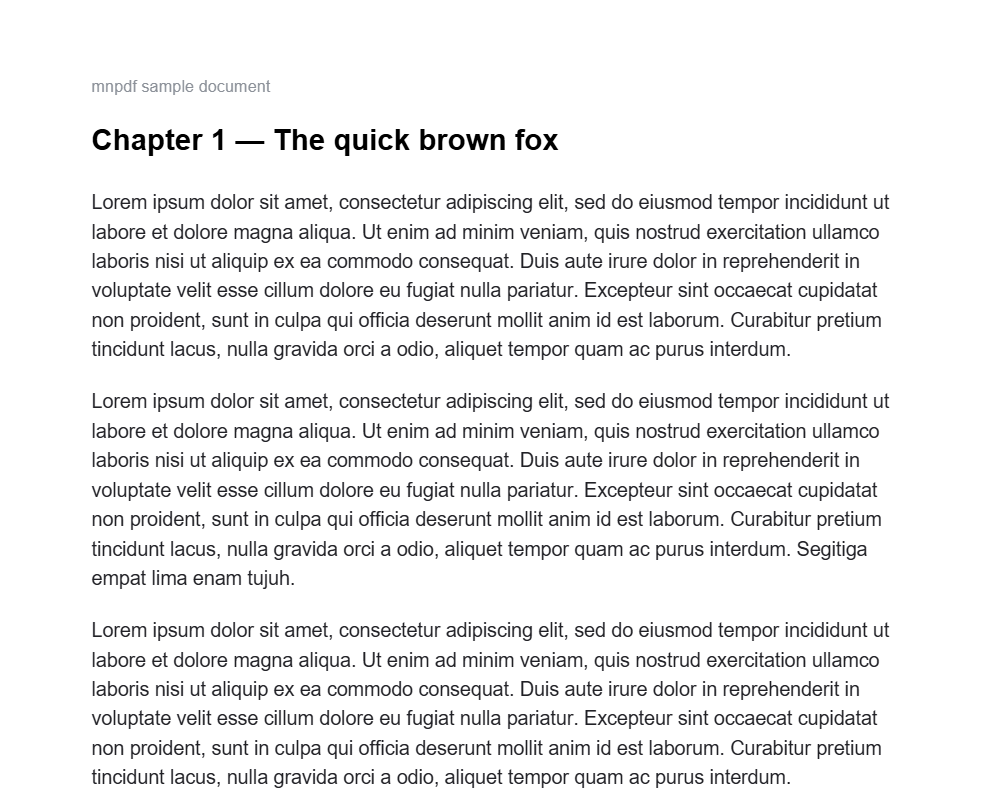
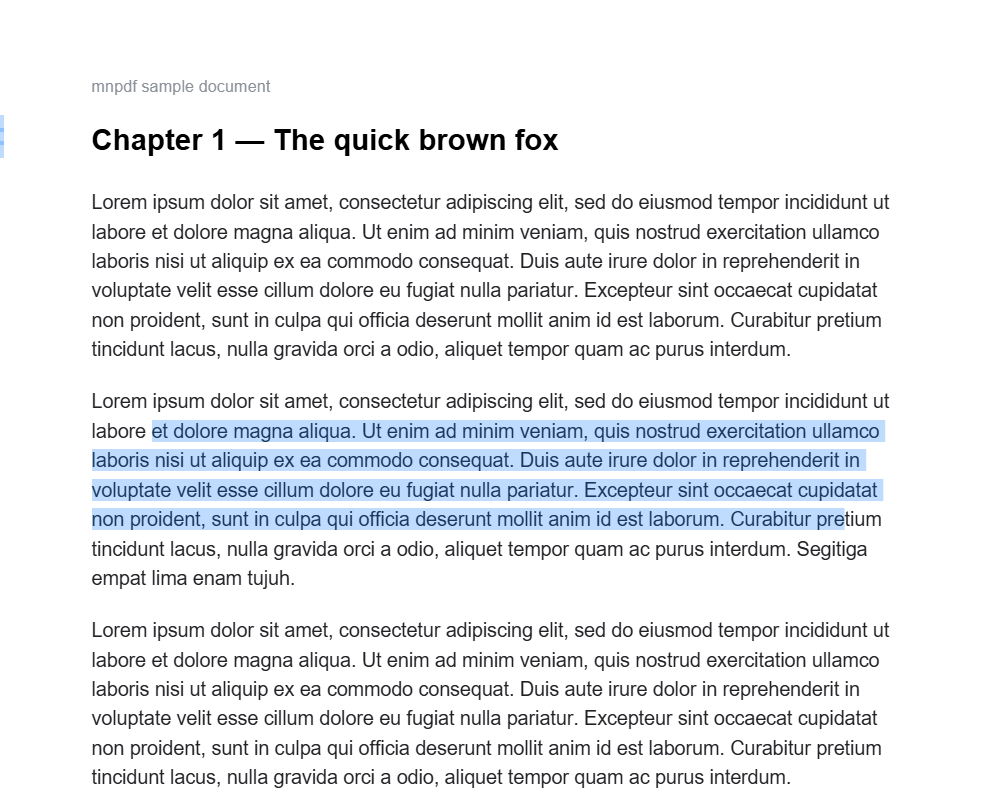
v0.7: mnpdf computes text selection itself — glyph-accurate, blank-space aware, persists after release (Chromium's gap selection no longer used)

Changed region(s): [[0.093, 0.5, 0.899, 0.6875], [0.0, 0.1562, 0.031, 0.1875]]

diff --git a/src/annos.js b/src/annos.js
@@ -46,77 +46,18 @@ function renderWrapOverlays(i, w, vp) {
   w.notes.replaceChildren(nFrag);
 }
 
-// ---- selection -> highlight rects ----
+// ---- text selection (manual, glyph-accurate) ----
 
-// The browser's drag-selection overshoots badly on text layers (a 2-line drag
-// can select to the end of the page when an endpoint lands in a gap). So for
-// drags we derive highlight rects from the POINTER BAND ∩ text spans instead
-// of trusting the selection. Double-click/keyboard selections keep the
-// selection-based path.
-let dragBand = null;    // {wrapEl, x0, y0, x1, y1} viewport coords
-let bandSel = null;     // last band-derived selection info
-let bandSelAt = 0;
+// Chromium's native drag-selection overshoots badly on text layers: an
+// endpoint that lands in a gap or margin extends the selection to the end of
+// the page, and right-clicks collapse it. So mnpdf computes the selection
+// itself from the glyph boxes: drag endpoints map to line/character offsets,
+// blank space means "start/end of the line", and the resulting DOM selection
+// is a real one — it paints blue, persists after release, and Ctrl+C works.
 
-function releaseSelecting() {
-  document.querySelectorAll('.textLayer.selecting').forEach((l) => l.classList.remove('selecting'));
-}
+let selAnchor = null; // {node, off, layer, boxes} while a drag is in progress
+let selLastApplied = '';
 
-function initDragBandTracking() {
-  document.addEventListener(
-    'mousedown',
-    (e) => {
-      if (e.button !== 0) return;
-      const tlEl = e.target.closest?.('.textLayer');
-      if (!tlEl) return;
-      // blank-space starts are fine: the highlight comes from the pointer band
-      // (glyph-trimmed), and endOfContent keeps the native endpoint on text
-      tlEl.classList.add('selecting');
-      const wrapEl = tlEl.closest('.pagewrap');
-      if (wrapEl) dragBand = { wrapEl, x0: e.clientX, y0: e.clientY, x1: e.clientX, y1: e.clientY };
-    },
-    true,
-  );
-  document.addEventListener(
-    'pointermove',
-    (e) => {
-      if (dragBand && e.buttons & 1) {
-        dragBand.x1 = e.clientX;
-        dragBand.y1 = e.clientY;
-      }
-    },
-    true,
-  );
-  document.addEventListener(
-    'pointerup',
-    () => {
-      releaseSelecting();
-      if (dragBand) {
-        const moved =
-          Math.abs(dragBand.x1 - dragBand.x0) + Math.abs(dragBand.y1 - dragBand.y0) >= 6;
-        const derived = moved ? deriveBandSelection(dragBand) : null;
-        if (derived) {
-          bandSel = derived;
-          bandSelAt = Date.now();
-          lastSel = derived;
-          // the native selection overshoots on gap drags; our band result
-          // replaces it (Ctrl+C falls back to the captured band text)
-          window.getSelection()?.removeAllRanges();
-        }
-        dragBand = null;
-      }
-    },
-    true,
-  );
-  document.addEventListener('pointercancel', () => {
-    releaseSelecting();
-    dragBand = null;
-  });
-  window.addEventListener('blur', releaseSelecting);
-}
-
-// A span's box covers its laid-out text INCLUDING stretched/trailing spaces —
-// highlight boxes must use the trimmed visible glyphs only, or highlights
-// bleed into the page margins ("fringe" highlighting).
 function spanVisibleBox(span) {
   const text = span.textContent || '';
   const node = span.firstChild;
@@ -150,93 +91,92 @@ function offsetAtX(vis, x) {
   return Math.max(vis.start, Math.min(vis.end, vis.start + Math.round(frac * (vis.end - vis.start))));
 }
 
-// rects covered by the pointer band: the visible glyphs of every text line the
-// band crosses. The band's vertical extent decides WHICH lines; its horizontal
-// extent only trims the first/last line when the pointer cut inside the text —
-// starting or ending in blank space means "the whole line(s)", never the page
-// margins.
-function deriveBandSelection(band) {
-  const i = +band.wrapEl.dataset.i;
-  if (!S.pageList[i]) return null;
-  const vp = viewportFor(i);
-  if (!vp) return null;
-  const wr = band.wrapEl.getBoundingClientRect();
-  const bx0 = Math.min(band.x0, band.x1), bx1 = Math.max(band.x0, band.x1);
-  const by0 = Math.min(band.y0, band.y1), by1 = Math.max(band.y0, band.y1);
-  const boxes = [];
-  for (const span of band.wrapEl.querySelectorAll('.textLayer span')) {
+function layerSpans(layer) {
+  const out = [];
+  for (const span of layer.querySelectorAll('span')) {
     const vis = spanVisibleBox(span);
-    if (!vis || vis.bottom - vis.top < 2 || vis.right - vis.left < 1) continue;
-    // a line counts only when the band genuinely crosses it: grazing the edge
-    // of the next line (drag ending in the gap) must not pull it in — unless
-    // the drag itself is a thin same-line sweep
-    const overlap = Math.min(vis.bottom, by1) - Math.max(vis.top, by0);
-    const bandH = by1 - by0;
-    if (bandH <= 8) {
-      // thin (same-line) sweep: the sweep line must sit inside the line box
-      const midY = (by0 + by1) / 2;
-      if (midY < vis.top - 2 || midY > vis.bottom + 2) continue;
-    } else if (overlap < 4 || overlap < (vis.bottom - vis.top) * 0.35) {
-      // the band must genuinely cross the line — grazing the next line's edge
-      // (drag ending in the gap) must not pull it in
-      continue;
-    }
-    boxes.push(vis);
+    if (vis && vis.bottom - vis.top >= 2 && vis.right - vis.left >= 1) out.push(vis);
   }
-  if (!boxes.length) return null;
-  const topMost = Math.min(...boxes.map((b) => b.top));
-  const botMost = Math.max(...boxes.map((b) => b.bottom));
-  const rects = [];
-  const parts = [];
-  for (const vis of boxes) {
-    const isFirst = vis.top <= topMost + 2;
-    const isLast = vis.bottom >= botMost - 2;
-    let sx = vis.left, sOff = vis.start;
-    if (isFirst && bx0 > vis.left + 2) {
-      if (bx0 >= vis.right - 2) continue; // drag started right of this line's text
-      sx = bx0;
-      sOff = offsetAtX(vis, bx0);
-    }
-    let ex = vis.right, eOff = vis.end;
-    if (isLast && bx1 > vis.left + 2 && bx1 < vis.right - 2) {
-      ex = bx1; // drag ended inside this line's text
-      eOff = offsetAtX(vis, bx1);
-    }
-    if (ex - sx < 1) continue;
-    const p1 = vp.convertToPdfPoint(sx - wr.left, vis.top - wr.top);
-    const p2 = vp.convertToPdfPoint(ex - wr.left, vis.bottom - wr.top);
-    rects.push([
-      Math.min(p1[0], p2[0]), Math.min(p1[1], p2[1]),
-      Math.max(p1[0], p2[0]), Math.max(p1[1], p2[1]),
-    ]);
-    parts.push(vis.text.slice(sOff - vis.start, eOff - vis.start));
-  }
-  if (!rects.length) return null;
-  return {
-    srcIdx: S.pageList[i].src, rects,
-    text: parts.join(' ').replace(/\s+/g, ' ').trim(),
-    band: { x0: bx0, y0: by0, x1: bx1, y1: by1 },
-  };
+  return out;
 }
 
-// what context menus should treat as "the selection": a recent pointer-band
-// drag wins over the (overshooting) browser selection — but only when the
-// right-click happened vertically inside the dragged rows (margin drags are
-// thin vertical bands, so the x position is irrelevant; "these lines" is the
-// selection)
-export function preferredSelection(y) {
-  if (
-    bandSel && Date.now() - bandSelAt < 2500 &&
-    y >= bandSel.band.y0 - 40 && y <= bandSel.band.y1 + 40
-  ) {
-    return bandSel;
+// the line the pointer is on: the row containing y, else the nearest row
+// within ~3/4 of a line height (blank space above/below lines belongs to that
+// line; deep blank space belongs to nothing)
+function lineAt(boxes, x, y) {
+  let best = null, bestD = Infinity;
+  for (const b of boxes) {
+    if (y >= b.top - 3 && y <= b.bottom + 3) return b;
+    const d = y < b.top ? b.top - y : y - b.bottom;
+    if (d < bestD) { bestD = d; best = b; }
   }
+  const lh = best ? best.bottom - best.top : 0;
+  return best && bestD <= lh * 0.75 ? best : null;
+}
+
+function anchorAt(boxes, x, y) {
+  const vis = lineAt(boxes, x, y);
+  if (!vis) return null;
+  let off;
+  if (x <= vis.left + 2) off = vis.start;        // blank/margin left of text
+  else if (x >= vis.right - 2) off = vis.end;    // blank right of text
+  else off = offsetAtX(vis, x);
+  return { node: vis.node, off, top: vis.top };
+}
+
+function applySelection(a, b) {
+  let s = a, t = b;
+  if (a.node !== b.node) {
+    const pos = a.node.compareDocumentPosition(b.node);
+    if (!(pos & Node.DOCUMENT_POSITION_FOLLOWING)) { s = b; t = a; }
+  } else if (a.off > b.off) { s = b; t = a; }
+  const r = document.createRange();
+  r.setStart(s.node, s.off);
+  r.setEnd(t.node, t.off);
+  const sel = window.getSelection();
+  sel.removeAllRanges();
+  sel.addRange(r);
+}
+
+function initManualSelection() {
+  document.addEventListener(
+    'mousedown',
+    (e) => {
+      if (e.button !== 0) return;
+      const tlEl = e.target.closest?.('.textLayer');
+      if (!tlEl) return;
+      if (e.detail >= 2) return; // double/triple click: native word/line select
+      e.preventDefault(); // Chromium's own selection is what overshoots
+      window.getSelection()?.removeAllRanges(); // a plain click clears, native-equivalent
+      const boxes = layerSpans(tlEl);
+      const a = anchorAt(boxes, e.clientX, e.clientY);
+      if (!a) return; // deep blank space: nothing to select
+      selAnchor = { ...a, layer: tlEl, boxes };
+      selLastApplied = null;
+    },
+    true,
+  );
+  document.addEventListener(
+    'mousemove',
+    (e) => {
+      if (!selAnchor || !(e.buttons & 1)) return;
+      const focus = anchorAt(selAnchor.boxes, e.clientX, e.clientY);
+      if (!focus) return;
+      const last = selLastApplied;
+      if (last && last.node === focus.node && last.off === focus.off) return;
+      selLastApplied = focus;
+      applySelection(selAnchor, focus);
+    },
+    true,
+  );
+  document.addEventListener('mouseup', () => { selAnchor = null; }, true);
+  window.addEventListener('blur', () => { selAnchor = null; });
+}
+
+// what context menus should treat as "the selection": the live selection if
+// present, else the last one remembered before a right-click collapsed it
+export function preferredSelection() {
   return selectionInfo() || lastSel;
-}
-
-// text of the last band drag, for Ctrl+C after the native selection was cleared
-export function recentBandText() {
-  return bandSel && Date.now() - bandSelAt < 5000 ? bandSel.text : null;
 }
 
 // Clean line rects for the selected characters: walk text nodes of the page's
@@ -474,7 +414,7 @@ export function startPinEdit(ann, isNew = false) {
 
 export function init() {
   setOverlayRenderer(renderWrapOverlays);
-  initDragBandTracking();
+  initManualSelection();
   document.addEventListener('selectionchange', () => {
     clearTimeout(selTimer);
     selTimer = setTimeout(() => { lastSel = selectionInfo(); }, 120);

diff --git a/src/main.js b/src/main.js
@@ -105,7 +105,7 @@ function initContextMenu() {
         del: cmd.deletePage,
       }));
     }
-    const sel = annos.preferredSelection(e.clientY);
+    const sel = annos.preferredSelection();
     if (sel) return menuForSelection(e, sel);
     const wrapEl = e.target.closest?.('.pagewrap');
     if (wrapEl && S.pdf) return menuForPage(e, wrapEl);
@@ -125,14 +125,6 @@ function initKeyboard() {
     const c = e.ctrlKey || e.metaKey;
     const k = e.key;
     if (c && k === 'o') { e.preventDefault(); cmd.openCmd(); }
-    else if (c && k.toLowerCase() === 'c') {
-      // band drags clear the (overshooting) native selection on release —
-      // Ctrl+C right after a drag still copies the dragged text
-      if (!String(window.getSelection()).trim()) {
-        const t = annos.recentBandText();
-        if (t) { annos.copyText(t); toast('Copied'); e.preventDefault(); }
-      }
-    }
     else if (c && k.toLowerCase() === 's') { e.preventDefault(); e.shiftKey ? cmd.doSaveAs() : cmd.doSave(); }
     else if (c && k.toLowerCase() === 'z') { e.preventDefault(); e.shiftKey ? cmd.redoCmd() : cmd.undoCmd(); }
     else if (c && k.toLowerCase() === 'y') { e.preventDefault(); cmd.redoCmd(); }
